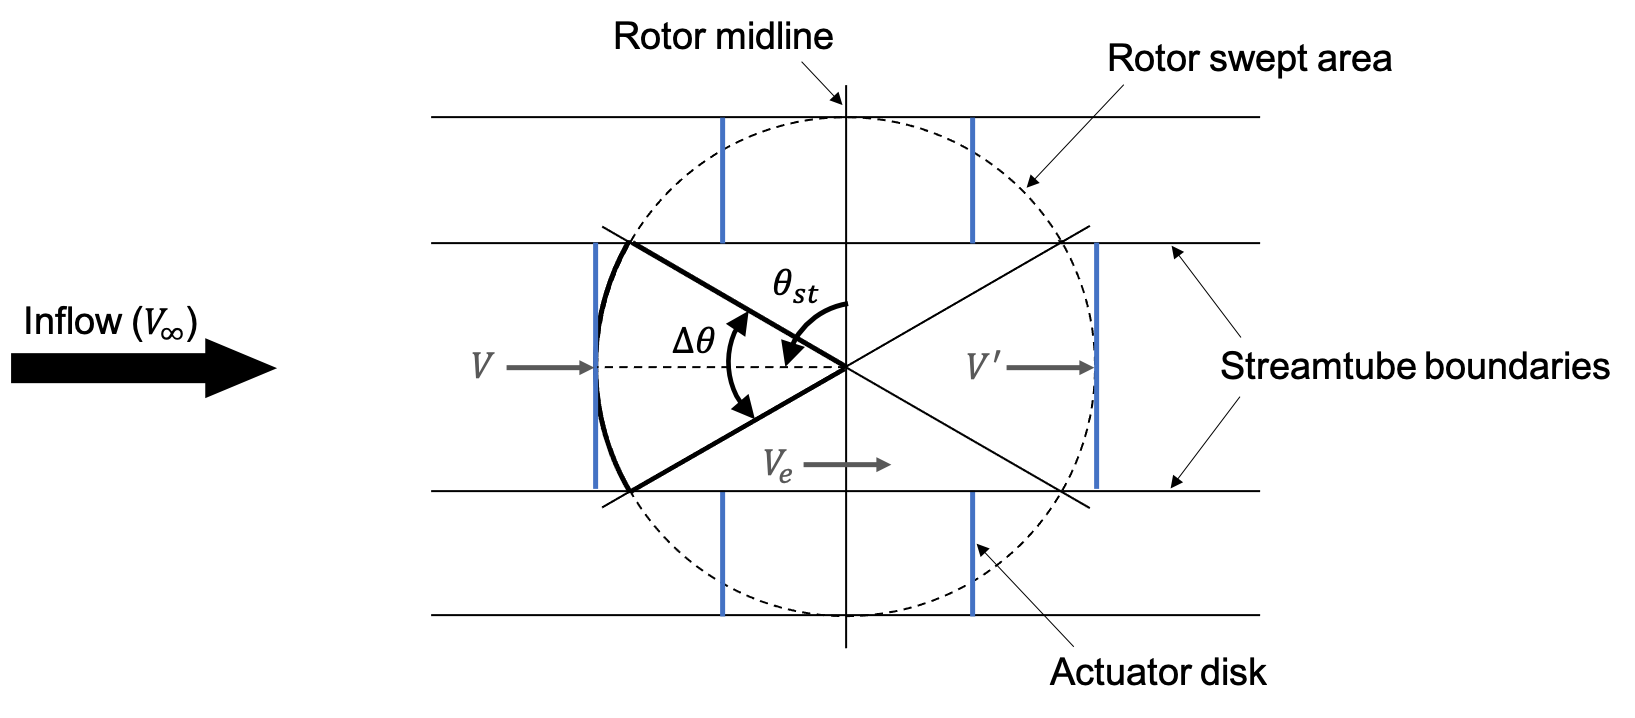
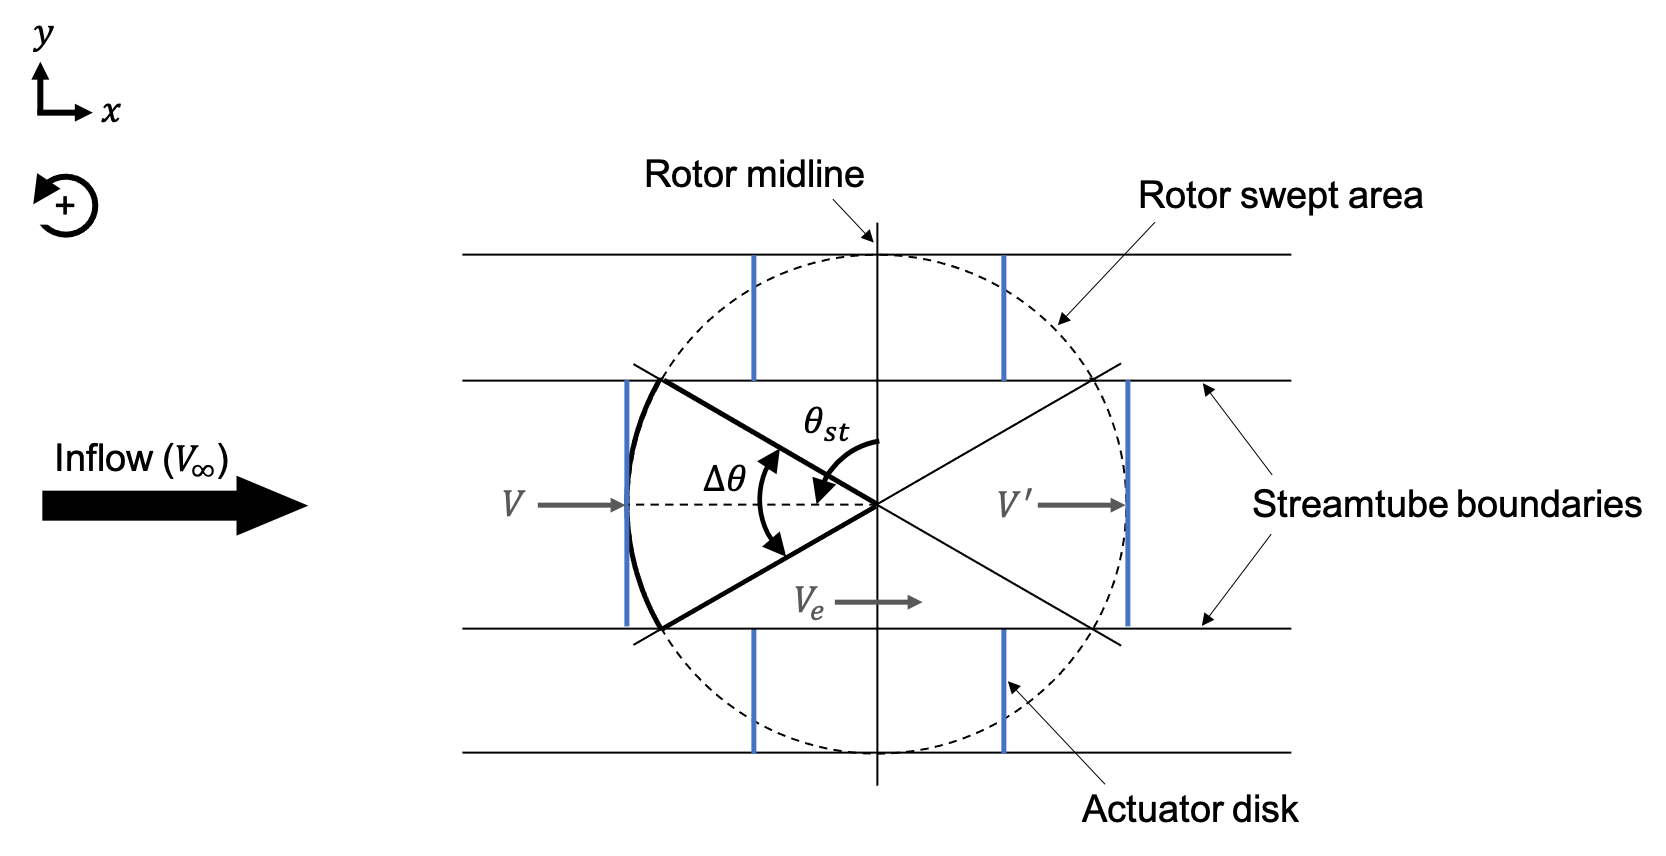
Improve DMST theory documentation

diff --git a/docs/source/user/aerodyn-dmst/theory.rst b/docs/source/user/aerodyn-dmst/theory.rst
@@ -10,7 +10,7 @@ This section details the DMST theory implemented in AeroDyn. An overview of the 
 Overview
 --------
 
-DMST models divide the swept area of a vertical-axis turbine rotor into multiple streamtubes parallel to the inflow direction, as shown in figure :numref:`fig:dmst-streamtubes`. Each streamtube is further divided along the midline of the rotor, separating the upstream and downstream blade sweeps. Within each streamtube, turbine dynamics are represented by a pair of actuator disks. Separating the upstream and downstream blade sweeps allows DMST models to account for the passage of downstream blades through the wake of upstream blades, improving their performance compared to single streamtube models.
+DMST models divide the swept area of a vertical-axis turbine rotor into multiple streamtubes parallel to the inflow direction, as shown in :numref:`fig:dmst-streamtubes`. Each streamtube is further divided along the midline of the rotor, separating the upstream and downstream blade sweeps. Within each streamtube, turbine dynamics are represented by a pair of actuator disks. Separating the upstream and downstream blade sweeps allows DMST models to account for the passage of downstream blades through the wake of upstream blades, improving their performance compared to single streamtube models.
 
 .. figure:: figures/dmst-streamtubes.png
    :alt: Swept area of a vertical-axis turbine rotor divided into multiple streamtubes.
@@ -26,6 +26,22 @@ The influence of the rotor on inflow velocities is accounted for through the use
 Coordinate Systems
 ------------------
 
+The coorinate systems used in this implementation of DMST theory are illustrated in :numref:`fig:dmst-coords1` and :numref:`fig:dmst-coords2`. Inflow is assumed to be unidirectional, with the free-stream and induced velocities positive as shown. All schematics show a top view, with the positive vertical direction pointing out of the page. The tangential velocity :math:`\omega R` acts along the line tangent to the blade sweep, and the relative velocity is the vector sum of the induced and tangential velocities. The angle of attack is defined from the relative velocity vector to the chord line. The preset pitch angle is defined from the tangent line to the chord line. All angles are defined as positive in the counterclockwise direction, so the preset pitch angle is **negative** as shown, with the leading edge rotated outward. If the preset pitch angle is zero, the tangent and chord lines align. The radius is defined from the axis of rotation to the quarter chord of the blade, which is the reference position for all velocities and forces. The azimuthal blade position is defined as zero when the blade is pointing directly upstream. The inflow angle is the angle between the relative velocity vector and the tangent line. The normal and tangential forces act perpendicular and parallel to the tangent line, respectively. The lift and drag forces act perpendicular and parallel to the relative velocity vector, respectively. All forces are positive as shown.
+
+.. figure:: figures/dmst-coords1.png
+   :alt: Coordinate system used for the angles and velocities.
+   :name: fig:dmst-coords1
+   :width: 65.0%
+
+   The coordinate system used for the angles and velocities in this implementation of DMST theory.
+
+.. figure:: figures/dmst-coords2.png
+   :alt: Coordinate system used for the forces.
+   :name: fig:dmst-coords2
+   :width: 65.0%
+
+   The coordinate system used for the forces in this implementation of DMST theory.
+
 .. _sec:dmst-theory-assumptions:
 
 Assumptions
@@ -38,9 +54,23 @@ The DMST model implemented in AeroDyn assumes \**insert geometry and operating c
 Model Derivation
 ----------------
 
-As mentioned in :numref:`sec:dmst-theory-overview`, the DMST model is applied by first dividing the rotor swept area into multiple streamtubes in the lateral direction. These streamtubes are further divided into upstream and downstream halves. If desired, the swept area can also be divided in the vertical direction, and the solver can be applied to each vertical section separately. Dividing the swept area in the vertical direction allows for vertical variations in the free-stream velocity and \**rotor geometry\**. 
+As mentioned in :numref:`sec:dmst-theory-overview`, the DMST model is applied by first dividing the rotor swept area into multiple streamtubes in the lateral direction. These streamtubes are further divided into upstream and downstream halves. If desired, the swept area can also be divided in the vertical direction, and the solver can be applied to each vertical section separately. Dividing the swept area in the vertical direction allows for vertical variations in the free-stream velocity and \**rotor geometry\**. The total streamtube angle is defined as 
 
-For each vertical section, the induced velocities in each streamtube are represented as functions of the upstream and downstream induction factors. The upstream induced velocity is given as
+.. math::
+   \begin{aligned}
+   \Delta \theta = \frac{\pi}{N_{st}},
+   \end{aligned}
+   :label: eq:dmst-Dtheta
+
+and the azimuthal position of the streamtube midpoint is calculated as 
+
+.. math::
+   \begin{aligned}
+   \theta_{st} = \frac{\Delta \theta}{2} + \Delta \theta~(i-1),
+   \end{aligned}
+   :label: eq:dmst-thetast
+
+where :math:`i=1:2N_{st}`. For each vertical section, the induced velocities in each streamtube are represented as functions of the upstream and downstream induction factors. The upstream induced velocity is given as
 
 .. math::
    \begin{aligned}
@@ -69,7 +99,7 @@ To solve for the induction factors, blade element and linear momentum theories a
 
 .. math::
    \begin{aligned}
-   V_{rel} = V\sqrt{1+2\lambda \cos \theta +\lambda^2},
+   V_{rel} = V\sqrt{1+2\lambda \cos \theta_{st} +\lambda^2},
    \end{aligned}
    :label: eq:dmst-Vrel
 
@@ -85,7 +115,7 @@ Similarly, the downstream relative velocity is given as
 
 .. math::
    \begin{aligned}
-   V_{rel}^\prime = V^\prime\sqrt{1+2\lambda^\prime \cos \theta +\lambda^{\prime 2}},
+   V_{rel}^\prime = V^\prime\sqrt{1+2\lambda^\prime \cos \theta_{st} +\lambda^{\prime 2}},
    \end{aligned}
    :label: eq:dmst-Vrelprime
 
@@ -101,7 +131,7 @@ The angle of attack for the upstream sweep can be calculated as
 
 .. math::
    \begin{aligned}
-   \alpha = \arctan {\bigg(\frac{\sin \theta}{\lambda + \cos \theta}\bigg)}+\alpha_p,
+   \alpha = \arctan {\bigg(\frac{\sin \theta_{st}}{\lambda + \cos \theta_{st}}\bigg)}+\alpha_p,
    \end{aligned}
    :label: eq:dmst-alpha
 
@@ -109,7 +139,7 @@ and the angle of attack for the downstream sweep as
 
 .. math::
    \begin{aligned}
-   \alpha^\prime = \arctan {\bigg(\frac{\sin \theta}{\lambda^\prime + \cos \theta}\bigg)}+\alpha_p.
+   \alpha^\prime = \arctan {\bigg(\frac{\sin \theta_{st}}{\lambda^\prime + \cos \theta_{st}}\bigg)}+\alpha_p.
    \end{aligned}
    :label: eq:dmst-alphaprime
 
@@ -183,7 +213,7 @@ Given the relative velocity and normal and tangential force coefficients, blade 
 
 .. math::
    \begin{aligned}
-   \overline{C_T}_i = \frac{Nc}{\pi R \Delta \theta \sin \theta_{st} V_\infty ^2}\int\limits_{\theta_{st}-\frac{\Delta \theta}{2}}^{\theta_{st}+\frac{\Delta \theta}{2}} V_{rel}^2 [C_t \cos \theta + C_n \sin \theta]~\mathrm{d}\theta
+   \overline{C_{T,1}}_i = \frac{Nc}{\pi R \Delta \theta \sin \theta_{st} V_\infty ^2}\int\limits_{\theta_{st}-\frac{\Delta \theta}{2}}^{\theta_{st}+\frac{\Delta \theta}{2}} V_{rel}^2 [C_t \cos \theta + C_n \sin \theta]~\mathrm{d}\theta
    \end{aligned}
    :label: eq:dmst-betCT
 
@@ -191,15 +221,31 @@ for the upstream sweep and
 
 .. math::
    \begin{aligned}
-   \overline{C^\prime_T}_i = \frac{Nc}{\pi R \Delta \theta \sin \theta_{st} V_e ^2}\int\limits_{\theta_{st}-\frac{\Delta \theta}{2}}^{\theta_{st}+\frac{\Delta \theta}{2}} V_{rel}^{\prime 2} [C_t^\prime \cos \theta + C_n^\prime \sin \theta]~\mathrm{d}\theta
+   \overline{C^\prime_{T,1}}_i = \frac{Nc}{\pi R \Delta \theta \sin \theta_{st} V_e ^2}\int\limits_{\theta_{st}-\frac{\Delta \theta}{2}}^{\theta_{st}+\frac{\Delta \theta}{2}} V_{rel}^{\prime 2} [C_t^\prime \cos \theta + C_n^\prime \sin \theta]~\mathrm{d}\theta
    \end{aligned}
    :label: eq:dmst-betCTprime
+
+for the downstream sweep. As :math:`N_{st} \rightarrow \infty`, the average thrust coefficient for a streamtube reduces to
+
+.. math::
+   \begin{aligned}
+   \overline{C_{T,1}}_i = \frac{NcV_{rel}^2}{\pi R \sin \theta_{st} V_\infty ^2} (C_t \cos \theta_{st} + C_n \sin \theta_{st})
+   \end{aligned}
+   :label: eq:dmst-betCTnoint
+
+for the upstream sweep and 
+
+.. math::
+   \begin{aligned}
+   \overline{C^\prime_{T,1}}_i = \frac{NcV_{rel}^{\prime 2}}{\pi R \sin \theta_{st} V_e ^2} (C_t^\prime \cos \theta_{st} + C_n^\prime \sin \theta_{st})
+   \end{aligned}
+   :label: eq:dmst-betCTprimenoint
 
 for the downstream sweep. Applying linear momentum theory to each streamtube yields a second, independent expression for the average thrust coefficient, given as
 
 .. math::
    \begin{aligned}
-   \overline{C_T}_i = 4u(1-u)
+   \overline{C_{T,2}}_i = 4u(1-u)
    \end{aligned}
    :label: eq:dmst-lmCT
 
@@ -207,11 +253,11 @@ for the upstream sweep and
 
 .. math::
    \begin{aligned}
-   \overline{C^\prime_T}_i = 4u^\prime(1-u^\prime)
+   \overline{C^\prime_{T,2}}_i = 4u^\prime(1-u^\prime)
    \end{aligned}
    :label: eq:dmst-lmCTprime
 
-for the downstream sweep. Eqs. :eq:`eq:dmst-betCT`-:eq:`eq:dmst-lmCTprime` are solved iteratively for the upstream and downstream induction factors. The average power and torque coefficients for a given streamtube can then be calculated. The average power coefficient for the upstream sweep within a streamtube is given as
+for the downstream sweep. Eqs. :eq:`eq:dmst-betCTnoint`-:eq:`eq:dmst-lmCTprime` are solved iteratively for the upstream and downstream induction factors. The average power and torque coefficients for a given streamtube can then be calculated. The average power coefficient for the upstream sweep within a streamtube is given as
 
 .. math::
    \begin{aligned}
@@ -227,7 +273,23 @@ and the average power coefficient for the downstream sweep is given as
    \end{aligned}
    :label: eq:dmst-CPprime
 
-Similarly, the average torque coefficient for the upstream sweep within a streamtube is given as
+As before, as :math:`N_{st} \rightarrow \infty`, the average power coefficient for a streamtube reduces to
+
+.. math::
+   \begin{aligned}
+   \overline{C_P}_i = \frac{Nc\omega V_{rel}^2 C_t}{\pi \sin \theta_{st} V_\infty ^3}
+   \end{aligned}
+   :label: eq:dmst-CPnoint
+
+for the upstream sweep and
+
+.. math::
+   \begin{aligned}
+   \overline{C_P^\prime}_i = \frac{Nc\omega V_{rel}^{\prime 2} C_t^\prime}{\pi \sin \theta_{st} V_e ^3}
+   \end{aligned}
+   :label: eq:dmst-CPnointprime
+
+for the downstream sweep. Similarly, the average torque coefficient for the upstream sweep within a streamtube is given as
 
 .. math::
    \begin{aligned}
@@ -243,7 +305,23 @@ and the average torque coefficient for the downstream sweep is given as
    \end{aligned}
    :label: eq:dmst-CQprime
 
-The average power (or thrust or torque) coefficient for the upstream half of the blade sweep is calculated by summing the contributions from the upstream portion of each streamtube,
+Again, as :math:`N_{st} \rightarrow \infty`, the average torque coefficient for a streamtube reduces to
+
+.. math::
+   \begin{aligned}
+   \overline{C_Q}_i = \frac{NcV_{rel}^2 C_t}{\pi R \sin \theta_{st} V_\infty ^2}
+   \end{aligned}
+   :label: eq:dmst-CQnoint
+
+for the upstream sweep and
+
+.. math::
+   \begin{aligned}
+   \overline{C_Q^\prime}_i = \frac{NcV_{rel}^{\prime 2} C_t^\prime}{\pi R \sin \theta_{st} V_e ^2}
+   \end{aligned}
+   :label: eq:dmst-CQnointprime
+
+for the downstream sweep. The average power (or thrust or torque) coefficient for the upstream half of the blade sweep is calculated by summing the contributions from the upstream portion of each streamtube,
 
 .. math::
    \begin{aligned}
@@ -275,5 +353,16 @@ Finally, if the rotor swept area was divided into muptiple vertical sections, th
    \end{aligned}
    :label: eq:dmst-CProtor
 
+.. _sec:dmst-theory-solution:
+
 Solution Method
 ---------------
+
+A summary of the iterative solution method used in this implementation of DMST theory is given by the flowchart presented in :numref:`fig:dmst-solution`. 
+
+.. figure:: figures/dmst-solution.png
+   :alt: Iterative solution method used to implement the DMST theory.
+   :name: fig:dmst-solution
+   :width: 100.0%
+
+   Iterative solution method used to implement the DMST theory.
